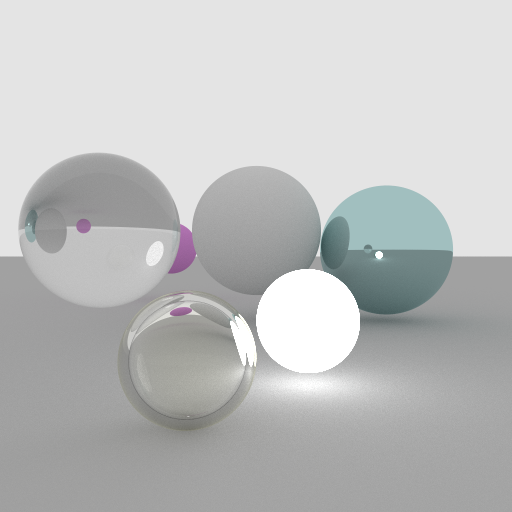
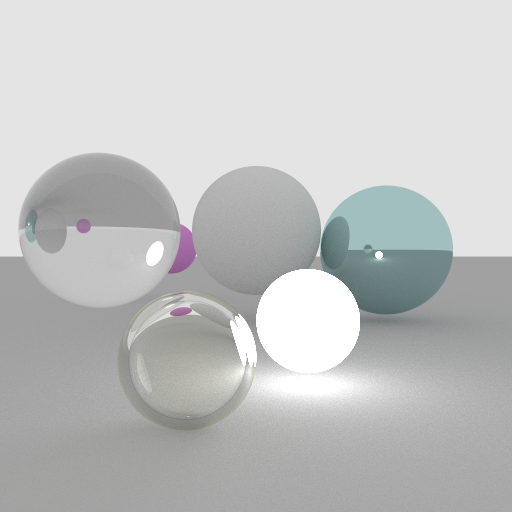
multicore support

Changed region(s): [[0.4375, 0.6875, 0.75, 0.8125]]

diff --git a/src/raytracer.rs b/src/raytracer.rs
@@ -1,14 +1,15 @@
-use crate::math::{self, Float, Ray, Vec3, rand};
-use crate::object::{Sphere, Floor, Hittable};
-use crate::reflection::{Diffuse, Mirror, HitAttr, HitKind, DiffusedLightSource, Glass};
+use crate::math::{self, rand, Float, Ray, Vec3};
+use crate::object::Hittable;
+use crate::reflection::{HitAttr, HitKind};
 use indicatif::{ProgressBar, ProgressStyle};
+use std::sync::{Arc, Mutex};
+use std::thread;
 
 pub struct Raytracer {
     pub image_width: usize,
     pub image_height: usize,
-    objects: Vec<Box<dyn Hittable>>,
-    pixel_buffer: Vec<Vec3>,
     sample_num: usize,
+    thread_num: usize,
 }
 
 impl Raytracer {
@@ -16,128 +17,93 @@ impl Raytracer {
         Self {
             image_width,
             image_height,
-            objects: 
-            // {
-            //     let mut objvec: Vec<Box<dyn Hittable>> = Vec::new();
-            //     for _ in 0..50 {
-            //         let mut rng = rand::thread_rng();
-            //         let center = Vec3::new(rng.gen_range(-2.0..2.0), rng.gen_range(2.0..5.0), rng.gen_range(-1.5..0.5));
-            //         let radius = rng.gen_range(0.1..0.4);
-            //         let color = Vec3::new(rng.gen_range(0.0..1.0), rng.gen_range(0.0..1.0), rng.gen_range(0.0..1.0));
-            //         let material = rng.gen_range(0..5);
-            //         match material {
-            //             0|1 => {objvec.push(Box::new(Sphere::new(center, radius, Diffuse::new(color))));},
-            //             2|3 => {objvec.push(Box::new(Sphere::new(center, radius, Mirror::new(color))));},
-            //             _ => {objvec.push(Box::new(Sphere::new(center, radius, DiffusedLightSource::new(color * 2.0))));},
-            //         }
-            //     }
-            //     objvec.push(Box::new(Floor::new(
-            //         -2.0,
-            //         true,
-            //         Diffuse::new(Vec3::new(0.5, 0.5, 0.5))
-            //     )));
-            //     objvec
-            // },
-            vec![
-                Box::new(Sphere::new(
-                    Vec3::new(0.0, 3.0, 0.2),
-                    0.5,
-                    Diffuse::new(Vec3::new(0.7, 0.7, 0.7)),
-                )),
-                Box::new(Sphere::new(
-                    Vec3::new(1.0, 3.0, 0.05),
-                    0.5,
-                    Mirror::new(Vec3::new(0.5, 0.7, 0.7)),
-                )),
-                Box::new(Sphere::new(
-                    Vec3::new(-0.6, 1.0, 0.1),
-                    0.3,
-                    Glass::new(Vec3::new(0.9, 0.9, 0.9), 2.0),
-                )),
-                Box::new(Sphere::new(
-                    Vec3::new(-0.2, 0.5, -0.3),
-                    0.2,
-                    Glass::new(Vec3::new(0.9, 0.9, 0.7), 1.3),
-                )),
-                Box::new(Sphere::new(
-                    Vec3::new(-0.2, 0.5, -0.3),
-                    0.17,
-                    Glass::new(Vec3::new(1.0, 1.0, 1.0), 1.0 / 1.3),
-                )),
-                Box::new(Sphere::new(
-                    Vec3::new(-1.0, 5.0, 0.1),
-                    0.3,
-                    Diffuse::new(Vec3::new(0.7, 0.3, 0.7)),
-                )),
-                Box::new(Sphere::new(
-                    Vec3::new(0.2, 1.0, -0.25),
-                    0.2,
-                    DiffusedLightSource::new(Vec3::new(5.0, 5.0, 5.0)),
-                )),
-                Box::new(Floor::new(
-                    -0.5,
-                    true,
-                    Diffuse::new(Vec3::new(0.5, 0.5, 0.5)),
-                )),
-            ],
-            pixel_buffer: vec![Vec3::zero(); image_height * image_width],
             sample_num,
+            thread_num: {
+                let num = num_cpus::get();
+                println!("{} core{} in use!", num, if num > 1 { "s" } else { "" });
+                num_cpus::get()
+            },
         }
     }
 
-    fn set_pixel(&mut self, x: usize, y: usize, sample_num: usize, color: Vec3) {
-        let index = y * self.image_width + x;
-        self.pixel_buffer[index] = (self.pixel_buffer[index] * (sample_num as Float) + color)
-            * (1.0 / (sample_num as Float + 1.0));
-    }
-
-    pub fn run(&mut self) -> &Vec<Vec3> {
-        let pb = ProgressBar::new((self.image_height * self.sample_num) as u64);
+    pub fn run(&self, objects: Vec<Box<dyn Hittable + Send + Sync>>) -> Vec<Vec3> {
+        let mut thread_pool = Vec::new();
+        let pb = ProgressBar::new((self.image_height * self.image_width * self.thread_num) as u64);
         pb.set_style(ProgressStyle::default_bar());
         pb.set_message("Raytracing...");
+        let mutex_pb = Arc::new(Mutex::new(pb));
+        let pixel_buffer = vec![Vec3::zero(); self.image_height * self.image_width];
+        let mutex_pixelbuffer = Arc::new(Mutex::new(pixel_buffer));
+        let arc_objects = Arc::new(objects);
+        let image_width = self.image_width;
+        let image_height = self.image_height;
+        let sample_num = self.sample_num / self.thread_num;
 
-        let viewport_width = 2.0;
-        let viewport_height = 2.0;
-        let focal_length = 2.0;
-        let origin = Vec3::new(0.0, -1.0, 0.0);
-        let horizontal = Vec3::new(viewport_width, 0.0, 0.0);
-        let vertical = Vec3::new(0.0, 0.0, viewport_height);
-        let lower_left_corner =
-            origin - horizontal * 0.5 - vertical * 0.5 + Vec3::new(0.0, focal_length, 0.0);
-        for i in 0..self.sample_num {
-            for y in 0..self.image_height {
-                for x in 0..self.image_width {
-                    let r = Ray::new(origin, {
-                        let rand_x = rand() - 0.5;
-                        let rand_y = rand() - 0.5;
-                        let u = (x as Float + rand_x) / self.image_width as Float;
-                        let v = 1.0 - (y as Float + rand_y) / self.image_height as Float;
-                        lower_left_corner + horizontal * u + vertical * v - origin
-                    });
-                    let rb = RayBouncer::new(r, 1000, &self.objects);
-                    let color = if let Some(h) = rb.last() {
-                        h.ray.color
-                    } else {
-                        Vec3::sky_color()
-                    };
-                    // Gamma Correction
-                    self.set_pixel(x, y, i, color.sqrt());
+        for _ in 0..self.thread_num {
+            let mutex_pb = Arc::clone(&mutex_pb);
+            let mutex_pixelbuffer = Arc::clone(&mutex_pixelbuffer);
+            let arc_objects = Arc::clone(&arc_objects);
+            thread_pool.push(thread::spawn(move || {
+                let viewport_width = 2.0;
+                let viewport_height = 2.0;
+                let focal_length = 2.0;
+                let origin = Vec3::new(0.0, -1.0, 0.0);
+                let horizontal = Vec3::new(viewport_width, 0.0, 0.0);
+                let vertical = Vec3::new(0.0, 0.0, viewport_height);
+                let lower_left_corner =
+                    origin - horizontal * 0.5 - vertical * 0.5 + Vec3::new(0.0, focal_length, 0.0);
+                for y in 0..image_height {
+                    for x in 0..image_width {
+                        let mut accum_color = Vec3::zero();
+                        for _ in 0..sample_num {
+                            let r = Ray::new(origin, {
+                                let rand_x = rand() - 0.5;
+                                let rand_y = rand() - 0.5;
+                                let u = (x as Float + rand_x) / image_width as Float;
+                                let v = 1.0 - (y as Float + rand_y) / image_height as Float;
+                                lower_left_corner + horizontal * u + vertical * v - origin
+                            });
+                            let rb = RayBouncer::new(r, 1000, &*arc_objects);
+                            let color = if let Some(h) = rb.last() {
+                                h.ray.color
+                            } else {
+                                Vec3::sky_color()
+                            };
+                            accum_color += color;
+                        }
+                        let color = accum_color * (1.0 / (sample_num as Float));
+                        {
+                            let mut pixel_buffer = mutex_pixelbuffer.lock().unwrap();
+                            pixel_buffer[y * image_width + x] =
+                                pixel_buffer[y * image_width + x] + color;
+                        }
+                        mutex_pb.lock().unwrap().inc(1);
+                    }
                 }
-                pb.inc(1);
+            }));
+        }
+        for j in thread_pool {
+            j.join().unwrap();
+        }
+        let mut pixel_buffer = mutex_pixelbuffer.lock().unwrap();
+        for x in 0..image_height {
+            for y in 0..image_width {
+                pixel_buffer[y * image_width + x] =
+                    pixel_buffer[y * image_width + x] * (1.0 / (self.thread_num as Float));
             }
         }
-        &self.pixel_buffer
+        let res = pixel_buffer.clone();
+        res
     }
 }
 
-
-/// RayBouncer is an iterator that iterates bounces the ray until it hits nothing. 
-/// It returns the HitAttr of the last bounce every time it is called. 
+/// RayBouncer is an iterator that iterates bounces the ray until it hits nothing.
+/// It returns the HitAttr of the last bounce every time it is called.
 /// If the ray bounces nothing, it returns None.
 struct RayBouncer<'a> {
     depth: usize,
     max_depth: usize,
-    objects: &'a Vec<Box<dyn Hittable>>,
+    objects: &'a Vec<Box<dyn Hittable + Send + Sync>>,
     hitattr: Option<HitAttr>,
 }
 
@@ -146,7 +112,7 @@ impl<'a> RayBouncer<'a> {
     pub fn new(
         ray: Ray,
         max_depth: usize,
-        objects: &'a Vec<Box<dyn Hittable>>,
+        objects: &'a Vec<Box<dyn Hittable + Send + Sync>>,
     ) -> Self {
         Self {
             depth: 0,
@@ -155,13 +121,16 @@ impl<'a> RayBouncer<'a> {
             hitattr: Some(HitAttr {
                 t: 0.0,
                 ray,
-                hitkind: HitKind::NormalHit
+                hitkind: HitKind::NormalHit,
             }),
         }
     }
 
     /// Returns the last hit attribute. After the last hit(e.g. Hits the sky), returns None.
-    fn ray_increment(h: &HitAttr, objects: &Vec<Box<dyn Hittable>>) -> Option<HitAttr> {
+    fn ray_increment(
+        h: &HitAttr,
+        objects: &Vec<Box<dyn Hittable + Send + Sync>>,
+    ) -> Option<HitAttr> {
         // Returns None when the ray hits the sky.
         if let HitKind::LastHit = h.hitkind {
             return None;
@@ -171,7 +140,8 @@ impl<'a> RayBouncer<'a> {
             let mut next_hitattr = object.hit(&h);
             // Make sure to use math::EPSILON defined in this crate, not std::f32::EPSILON
             // Add a small epsilon to avoid shadow acne
-            next_hitattr.ray.origin = next_hitattr.ray.origin + next_hitattr.ray.direction * math::EPSILON;
+            next_hitattr.ray.origin =
+                next_hitattr.ray.origin + next_hitattr.ray.direction * math::EPSILON;
             match closest_hitattr {
                 None => {
                     closest_hitattr = Some(next_hitattr);

diff --git a/src/app.rs b/src/app.rs
@@ -1,4 +1,9 @@
-use crate::raytracer;
+use crate::{
+    raytracer, 
+    object::{Sphere, Floor, Hittable}, 
+    math::Vec3, 
+    reflection::{Diffuse, Mirror, Glass, DiffusedLightSource},
+};
 use eframe::egui;
 
 const IMAGE_HEIGHT:usize = 512;
@@ -36,13 +41,56 @@ impl eframe::App for MyApp {
 }
 
 fn load_image_raytracer() -> egui::ColorImage {
-    let mut raytracer = raytracer::Raytracer::new(IMAGE_WIDTH, IMAGE_HEIGHT, SAMPLE_NUM);
-    let pixels = raytracer.run();
+    
+    let objects: Vec<Box<dyn Hittable + Sync + Send>> = vec![
+        Box::new(Sphere::new(
+            Vec3::new(0.0, 3.0, 0.2),
+            0.5,
+            Diffuse::new(Vec3::new(0.7, 0.7, 0.7)),
+        )),
+        Box::new(Sphere::new(
+            Vec3::new(1.0, 3.0, 0.05),
+            0.5,
+            Mirror::new(Vec3::new(0.5, 0.7, 0.7)),
+        )),
+        Box::new(Sphere::new(
+            Vec3::new(-0.6, 1.0, 0.1),
+            0.3,
+            Glass::new(Vec3::new(0.9, 0.9, 0.9), 2.0),
+        )),
+        Box::new(Sphere::new(
+            Vec3::new(-0.2, 0.5, -0.3),
+            0.2,
+            Glass::new(Vec3::new(0.9, 0.9, 0.7), 1.3),
+        )),
+        Box::new(Sphere::new(
+            Vec3::new(-0.2, 0.5, -0.3),
+            0.17,
+            Glass::new(Vec3::new(1.0, 1.0, 1.0), 1.0 / 1.3),
+        )),
+        Box::new(Sphere::new(
+            Vec3::new(-1.0, 5.0, 0.1),
+            0.3,
+            Diffuse::new(Vec3::new(0.7, 0.3, 0.7)),
+        )),
+        Box::new(Sphere::new(
+            Vec3::new(0.2, 1.0, -0.25),
+            0.2,
+            DiffusedLightSource::new(Vec3::new(5.0, 5.0, 5.0)),
+        )),
+        Box::new(Floor::new(
+            -0.5,
+            true,
+            Diffuse::new(Vec3::new(0.5, 0.5, 0.5)),
+        )),
+    ];
+    let raytracer = raytracer::Raytracer::new(IMAGE_WIDTH, IMAGE_HEIGHT, SAMPLE_NUM);
+    let pixels = raytracer.run(objects);
     let mut image_buffer = Vec::new();
     for i in 0..pixels.len() {
-        image_buffer.push((pixels[i].x * 256.0 ) as u8);
-        image_buffer.push((pixels[i].y * 256.0 ) as u8);
-        image_buffer.push((pixels[i].z * 256.0 ) as u8);
+        image_buffer.push((pixels[i].x.sqrt() * 256.0 ) as u8);
+        image_buffer.push((pixels[i].y.sqrt() * 256.0 ) as u8);
+        image_buffer.push((pixels[i].z.sqrt() * 256.0 ) as u8);
         image_buffer.push(255);
     }
     // image buffer to file

diff --git a/src/math.rs b/src/math.rs
@@ -147,6 +147,14 @@ impl std::ops::Add for Vec3 {
     }
 }
 
+impl std::ops::AddAssign for Vec3 {
+    fn add_assign(&mut self, other: Self) {
+        self.x += other.x;
+        self.y += other.y;
+        self.z += other.z;
+    }
+}
+
 impl std::ops::Sub for Vec3 {
     type Output = Self;
     fn sub(self, other: Self) -> Self {
